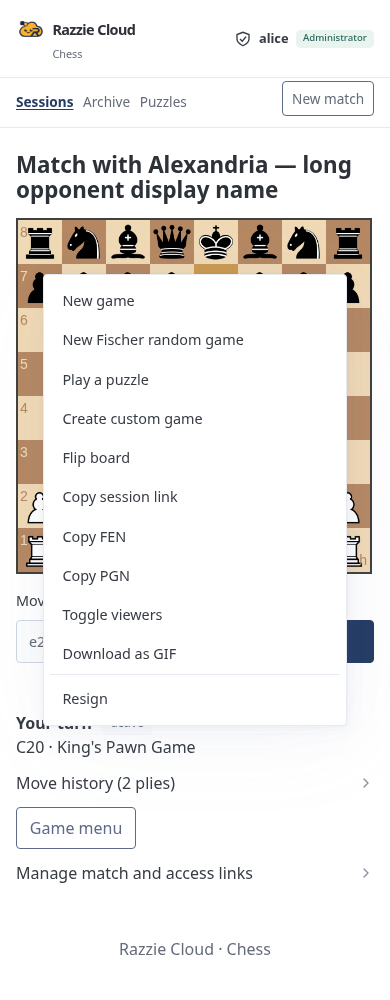
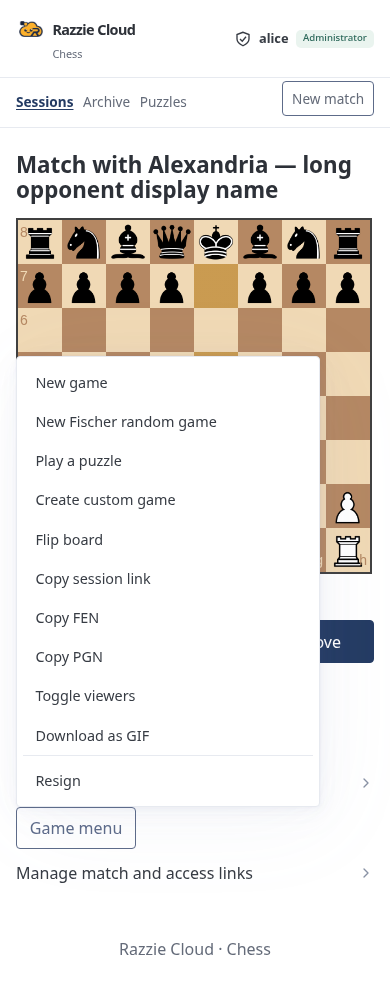
Anchor game menus to their buttons

Changed region(s): [[0.0308, 0.248, 0.8923, 0.806], [0.8, 0.62, 0.8923, 0.682]]

diff --git a/internal/web/static/chess.css b/internal/web/static/chess.css
@@ -16,6 +16,8 @@ input:not([type=checkbox],[type=radio],[type=range],[type=file]),select,textarea
 label,legend{font-size:.9rem}
 [role=group]>button{white-space:nowrap}
 h1{font-size:1.8rem;overflow-wrap:anywhere}.game-grid{display:grid;grid-template-columns:minmax(0,1.6fr) minmax(240px,1fr);gap:2rem;align-items:start}.board,#editor-board{width:100%;max-width:640px}#editor-board{max-width:480px;margin-block:1rem}.opening{line-height:1.5;overflow-wrap:anywhere}.status-line,.button-row{display:flex;gap:.6rem;align-items:center;flex-wrap:wrap}.badge.green{background:#eaf4ef;color:#2d695b}.badge{display:inline-flex;align-items:center;border-radius:5px;padding:.2rem .6rem;background:var(--pico-card-sectioning-background-color);color:var(--pico-muted-color);font-size:.75rem;line-height:1.4}.filters{display:flex;align-items:end;gap:1rem}.filters label{flex:1;min-width:0}.filters button{margin-bottom:var(--pico-spacing)}.match-list{display:grid;grid-template-columns:repeat(auto-fit,minmax(min(100%,300px),1fr));gap:1rem}.match-list article{margin:0}.match-list small{overflow-wrap:anywhere}.match-list article>div{display:flex;gap:.8rem;align-items:center;justify-content:space-between}.move-history{display:flex;flex-wrap:wrap;gap:.25rem;padding:0;list-style:none}.move-history button{font-size:.8rem;padding:.3rem .5rem;margin:0}.error{border-left:4px solid #c94c4c}.notice{border-left:4px solid #c19b35}.secret input{font-family:monospace}.game-menu{width:19rem;max-width:calc(100vw - 2rem);max-height:80vh;overflow:auto;border:1px solid var(--pico-muted-border-color);border-radius:var(--pico-border-radius);background:var(--pico-background-color);color:var(--pico-color);padding:.4rem;box-shadow:var(--pico-card-box-shadow)}
+/* Keep the viewport fallback within the five positions browsers must support. */
+@supports(position-area:bottom span-right){.game-menu{position-area:bottom span-right;position-try-fallbacks:flip-inline,flip-block,flip-inline flip-block,bottom,span-all}}
 .game-menu nav{display:flex;flex-direction:column;align-items:stretch}
 .game-menu :is(a,button){display:block;width:100%;margin:0;border:0;border-radius:var(--pico-border-radius);padding:.55rem .75rem;background:transparent;box-shadow:none;color:inherit;font-size:.9rem;line-height:1.5;text-align:left;text-decoration:none}
 .game-menu :is(a,button):is(:hover,:focus-visible){background:var(--pico-secondary-background);color:var(--pico-secondary-inverse)}

diff --git a/internal/app/browser_test.go b/internal/app/browser_test.go
@@ -67,9 +67,30 @@ func screenshot(t *testing.T, b *browser.Browser, name string) {
 
 func checkCompactControls(t *testing.T, b *browser.Browser, menu, name string) {
 	t.Helper()
-	b.Run(`for(const group of document.querySelectorAll('[role=group]')){const input=group.querySelector('input'),button=group.querySelector('button');if(!input||!button)continue;const a=input.getBoundingClientRect(),z=button.getBoundingClientRect();assert(Math.abs(a.top-z.top)<2&&Math.abs(a.bottom-z.bottom)<2,'move group alignment');assert(a.width>=80,'move input too narrow');}const menu=el('#` + menu + `');menu.showPopover();await frame();const items=[...menu.querySelectorAll('nav a,nav button')];assert(items.length===11,'missing game actions');const first=items[0].getBoundingClientRect(),color=getComputedStyle(items[1]).color;for(const item of items){assert(getComputedStyle(item).color===color,'menu text colors differ');const box=item.getBoundingClientRect();assert(Math.abs(box.left-first.left)<2&&Math.abs(box.width-first.width)<2,'menu item alignment');assert(box.height>=36,'menu target too small');}items[0].focus();assert(document.activeElement===items[0],'menu keyboard focus');assert(menu.getBoundingClientRect().right<=innerWidth,'menu overflow');`)
+	b.Run(`for(const group of document.querySelectorAll('[role=group]')){const input=group.querySelector('input'),button=group.querySelector('button');if(!input||!button)continue;const a=input.getBoundingClientRect(),z=button.getBoundingClientRect();assert(Math.abs(a.top-z.top)<2&&Math.abs(a.bottom-z.bottom)<2,'move group alignment');assert(a.width>=80,'move input too narrow');}const menu=el('#` + menu + `'),trigger=el('[popovertarget="` + menu + `"]');trigger.scrollIntoView({block:'center'});await frame();trigger.click();await frame();const anchor=trigger.getBoundingClientRect(),popup=menu.getBoundingClientRect();assert(Math.abs(popup.left-anchor.left)<2||Math.abs(popup.right-anchor.right)<2,'menu detached horizontally');assert(Math.abs(popup.top-anchor.bottom)<2||Math.abs(popup.bottom-anchor.top)<2,'menu detached vertically');assert(popup.top>=0&&popup.bottom<=innerHeight&&popup.left>=0&&popup.right<=innerWidth,'menu outside viewport '+JSON.stringify({popup,anchor,width:innerWidth,height:innerHeight}));const items=[...menu.querySelectorAll('nav a,nav button')];assert(items.length===11,'missing game actions');const first=items[0].getBoundingClientRect(),color=getComputedStyle(items[1]).color;for(const item of items){assert(getComputedStyle(item).color===color,'menu text colors differ');const box=item.getBoundingClientRect();assert(Math.abs(box.left-first.left)<2&&Math.abs(box.width-first.width)<2,'menu item alignment');assert(box.height>=36,'menu target too small');}items[0].focus();assert(document.activeElement===items[0],'menu keyboard focus');assert(menu.getBoundingClientRect().right<=innerWidth,'menu overflow');`)
 	screenshot(t, b, name)
-	b.Run(`el('#` + menu + `').hidePopover();`)
+	b.Run(`
+const menu=el('#` + menu + `'),trigger=el('[popovertarget="` + menu + `"]');
+menu.hidePopover();
+const original=trigger.style.cssText;
+try {
+  for(const bottom of [false,true]) for(const right of [false,true]) {
+    trigger.style.cssText='position:fixed;margin:0;'+(bottom?'bottom:16px;':'top:16px;')+(right?'right:16px;':'left:16px;');
+    trigger.click();await frame();
+    const anchor=trigger.getBoundingClientRect(),popup=menu.getBoundingClientRect();
+    assert(Math.abs((right?popup.right:popup.left)-(right?anchor.right:anchor.left))<2,'menu horizontal fallback');
+    assert(Math.abs((bottom?popup.bottom:popup.top)-(bottom?anchor.top:anchor.bottom))<2,'menu vertical fallback');
+    assert(popup.top>=0&&popup.bottom<=innerHeight&&popup.left>=0&&popup.right<=innerWidth,'fallback outside viewport');
+    menu.hidePopover();
+  }
+  trigger.style.cssText='position:fixed;top:16px;left:50%;margin:0';
+  trigger.click();await frame();
+  const anchor=trigger.getBoundingClientRect(),popup=menu.getBoundingClientRect();
+  assert(Math.abs(popup.top-anchor.bottom)<2,'menu should remain below button');
+  assert(popup.left>=0&&popup.right<=innerWidth,'menu horizontal shift');
+  menu.hidePopover();
+} finally {trigger.style.cssText=original;}
+`)
 }
 
 func TestBrowserPersistentBoardAndCSP(t *testing.T) {
@@ -109,6 +130,9 @@ func TestBrowserPersistentBoardAndCSP(t *testing.T) {
 			}
 		}
 	}
+	b.Viewport(390, 300)
+	b.Navigate(f.cfg.Origin + "/matches/" + created.ID)
+	b.Run(`const trigger=el('[popovertarget="game-menu"]');trigger.scrollIntoView({block:'center'});await frame();trigger.click();await frame();const menu=el('#game-menu'),box=menu.getBoundingClientRect();assert(box.top>=0&&box.bottom<=innerHeight&&box.left>=0&&box.right<=innerWidth,'short viewport menu overflow');assert(menu.scrollHeight>menu.clientHeight,'short menu should scroll');menu.querySelector('form button').scrollIntoView();await frame();assert(menu.scrollTop>0,'menu actions unreachable');`)
 	b.AssertNoErrors()
 }
 

diff --git a/docs/verification.md b/docs/verification.md
@@ -169,6 +169,34 @@ and Chromium. The temporary PostgreSQL container was removed afterward.
 No live SSO, production database, Docker image build, publication or deployment
 was exercised for this styling change.
 
+## Button-anchored game menus — 25 November 2026
+
+Match and puzzle menus now use native CSS anchor positioning: their top-left
+corner meets the invoking button's bottom-left corner when space permits.
+Fallbacks flip horizontally, vertically or both, then allow horizontal shifting
+and finally use the available viewport when neither side fits. The existing
+height limit and scrolling keep all actions reachable on short screens.
+Browsers without `position-area` support retain their default centered popover.
+The final placement stays within five alternatives, the minimum required by the
+[CSS specification](https://www.w3.org/TR/css-anchor-position-1/#position-try-fallbacks).
+
+Validation used the same isolated Go cache and installed Chromium as above,
+with a new disposable loopback PostgreSQL container:
+
+- `gofmt`, `go build ./...`, `go vet ./...`, `go test ./... -count=1` and
+  `go test -race ./... -count=1`: 140 checks passed per suite; opt-in live
+  acceptance skipped.
+- Browser checks now open both menus through their actual buttons and verify
+  aligned edges, viewport bounds, all four corners and horizontal shifting in
+  both themes at 390/1440 pixels. A 390×300 match verifies bounded scrolling
+  and access to the final action. Existing 320/390/768/1440 layout and persistent
+  state checks also passed with production CSP.
+- Eight menu screenshots refreshed; representative desktop/mobile captures in
+  both themes visually reviewed. `git diff --check` passed.
+
+No JavaScript, templates or dependencies changed. Firefox/Safari and live SSO
+were not exercised. No image publication or deployment ran.
+
 ## Handoff limits
 
 No remote, commit, Git tag, parent gitlink or image was published, and nothing
